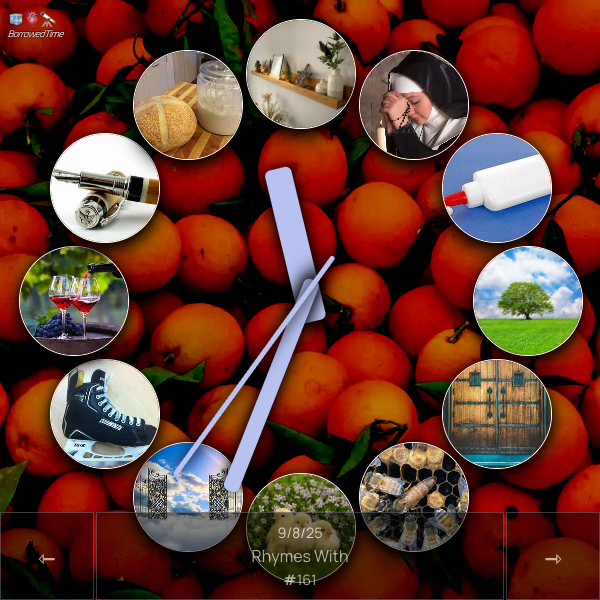
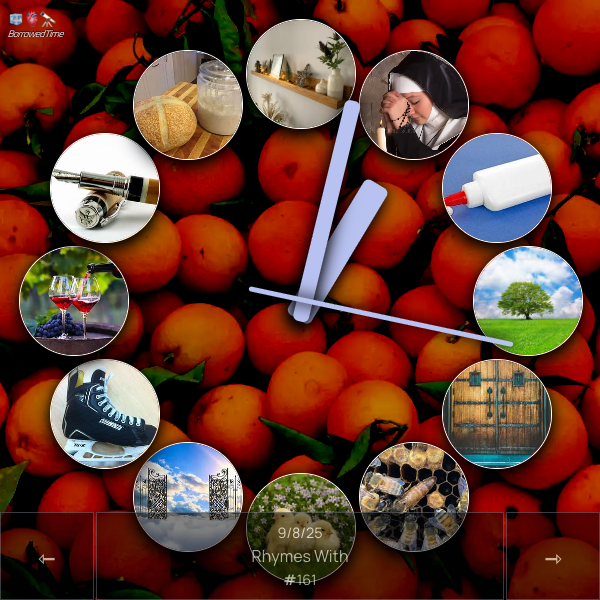
x

Changed region(s): [[0.27, 0.15, 0.87, 0.84]]

diff --git a/src/pages/25-09-08/Clock.jsx b/src/pages/25-09-08/Clock.jsx
@@ -1,5 +1,5 @@
 import React, { useEffect, useState } from "react";
-import bgImage from "./orange.webp"; // background
+import bgImage from "./orange.webp";
 import img1 from "./1.webp";
 import img2 from "./2.jpg";
 import img3 from "./3.jpg";
@@ -18,6 +18,11 @@ export default function ImageAnalogClock() {
   const [loaded, setLoaded] = useState(false);
 
   const images = [bgImage, img12, img1, img2, img3, img4, img5, img6, img7, img8, img9, img10, img11];
+  const CLOCK_SIZE = 90;
+  const CENTER = CLOCK_SIZE / 2;
+  const IMG_RADIUS = CLOCK_SIZE * 0.42;
+  const IMG_SIZE = CLOCK_SIZE * 0.2;
+  const intenseShadow = "0 1.5vmin 3vmin rgba(0,0,0,1), 0 0 2vmin rgba(0,0,0,0.8)";
 
   // Preload images
   useEffect(() => {
@@ -30,7 +35,6 @@ export default function ImageAnalogClock() {
         if (loadedCount === images.length) setLoaded(true);
       };
       img.onerror = () => {
-        // If any image fails, we still proceed
         loadedCount += 1;
         if (loadedCount === images.length) setLoaded(true);
       };
@@ -44,15 +48,10 @@ export default function ImageAnalogClock() {
   }, []);
 
   if (!loaded) {
-    return null; // or a loader div if you prefer
+    return <div style={{ color: "white", fontSize: "2rem", position: "absolute", top: "50%", left: "50%", transform: "translate(-50%, -50%)" }}>Loading...</div>;
   }
 
-  const clockSize = 90; 
-  const center = clockSize / 2;
-  const imgRadius = clockSize * 0.42;
-  const imgSize = clockSize * 0.2;
   const hourImages = [img12, img1, img2, img3, img4, img5, img6, img7, img8, img9, img10, img11];
-
   const hours = time.getHours() % 12;
   const minutes = time.getMinutes();
   const seconds = time.getSeconds();
@@ -61,20 +60,23 @@ export default function ImageAnalogClock() {
   const minuteAngle = (minutes + seconds / 60) * 6;
   const secondAngle = seconds * 6;
 
-  const intenseShadow = "0 1.5vmin 3vmin rgba(0,0,0,1), 0 0 2vmin rgba(0,0,0,0.8)";
-
   return (
     <div
       style={{
         width: "100vw",
         height: "100vh",
-        position: "relative",
+        position: "fixed",
+        top: 0,
+        left: 0,
         display: "flex",
         justifyContent: "center",
         alignItems: "center",
+        overflow: "hidden",
+        margin: 0,
+        padding: 0,
       }}
+      aria-label={`Analog clock showing ${hours}:${minutes.toString().padStart(2, "0")}:${seconds.toString().padStart(2, "0")}`}
     >
-      {/* Background */}
       <div
         style={{
           position: "absolute",
@@ -90,12 +92,12 @@ export default function ImageAnalogClock() {
           zIndex: 0,
         }}
       />
-
-      {/* Clock */}
       <div
         style={{
-          width: `${clockSize}vmin`,
-          height: `${clockSize}vmin`,
+          width: `${CLOCK_SIZE}vmin`,
+          height: `${CLOCK_SIZE}vmin`,
+          maxWidth: "800px",
+          maxHeight: "800px",
           borderRadius: "50%",
           position: "relative",
           zIndex: 1,
@@ -103,20 +105,20 @@ export default function ImageAnalogClock() {
       >
         {hourImages.map((img, i) => {
           const angle = (i * 30) * (Math.PI / 180);
-          const x = center + imgRadius * Math.sin(angle);
-          const y = center - imgRadius * Math.cos(angle);
+          const x = CENTER + IMG_RADIUS * Math.sin(angle);
+          const y = CENTER - IMG_RADIUS * Math.cos(angle);
           return (
             <div
               key={i}
               style={{
-                width: `${imgSize}vmin`,
-                height: `${imgSize}vmin`,
+                width: `${IMG_SIZE}vmin`,
+                height: `${IMG_SIZE}vmin`,
                 position: "absolute",
-                left: `${x - imgSize / 2}vmin`,
-                top: `${y - imgSize / 2}vmin`,
+                left: `${x - IMG_SIZE / 2}vmin`,
+                top: `${y - IMG_SIZE / 2}vmin`,
                 borderRadius: "50%",
                 overflow: "hidden",
-                border: `${clockSize * 0.0025}vmin solid white`,
+                border: `${CLOCK_SIZE * 0.0025}vmin solid white`,
                 display: "flex",
                 justifyContent: "center",
                 alignItems: "center",
@@ -126,60 +128,71 @@ export default function ImageAnalogClock() {
             >
               <img
                 src={img}
-                alt={`hour-${i}`}
+                alt={`Hour marker for ${i || 12}`}
                 style={{ width: "100%", height: "100%", objectFit: "cover" }}
               />
             </div>
           );
         })}
-
         {/* Hour hand */}
         <div
           style={{
-            width: `${clockSize * 0.05}vmin`,
-            height: `${clockSize * 0.29}vmin`,
- backgroundColor: "#B8C2F1FF",
-                      position: "absolute",
-            top: `${center - clockSize * 0.25}vmin`,
-            left: `${center - (clockSize * 0.02) / 2}vmin`,
-            transformOrigin: `50% ${clockSize * 0.25}vmin`,
+            width: `${CLOCK_SIZE * 0.05}vmin`,
+            height: `${CLOCK_SIZE * 0.29}vmin`,
+            backgroundColor: "#B8C2F1FF",
+            position: "absolute",
+            top: `${CENTER - CLOCK_SIZE * 0.25}vmin`,
+            left: `${CENTER - (CLOCK_SIZE * 0.02) / 2}vmin`,
+            transformOrigin: `50% ${CLOCK_SIZE * 0.25}vmin`,
             transform: `rotate(${hourAngle}deg)`,
             borderRadius: "1vmin",
             zIndex: 2,
             boxShadow: intenseShadow,
           }}
         />
-
         {/* Minute hand */}
         <div
           style={{
-            width: `${clockSize * 0.03}vmin`,
-            height: `${clockSize * 0.42}vmin`,
+            width: `${CLOCK_SIZE * 0.03}vmin`,
+            height: `${CLOCK_SIZE * 0.42}vmin`,
             backgroundColor: "#B8C2F1FF",
             position: "absolute",
-            top: `${center - clockSize * 0.38}vmin`,
-            left: `${center - (clockSize * 0.01) / 2}vmin`,
-            transformOrigin: `50% ${clockSize * 0.38}vmin`,
+            top: `${CENTER - CLOCK_SIZE * 0.38}vmin`,
+            left: `${CENTER - (CLOCK_SIZE * 0.01) / 2}vmin`,
+            transformOrigin: `50% ${CLOCK_SIZE * 0.38}vmin`,
             transform: `rotate(${minuteAngle}deg)`,
             borderRadius: "1vmin",
             zIndex: 3,
             boxShadow: intenseShadow,
           }}
         />
-
         {/* Second hand */}
         <div
           style={{
-            width: `${clockSize * 0.01}vmin`,
-            height: `${clockSize * 0.5}vmin`,
+            width: `${CLOCK_SIZE * 0.01}vmin`,
+            height: `${CLOCK_SIZE * 0.5}vmin`,
             backgroundColor: "#B8C2F1FF",
             position: "absolute",
-            top: `${center - clockSize * 0.4}vmin`,
-            left: `${center - (clockSize * 0.005) / 2}vmin`,
-            transformOrigin: `50% ${clockSize * 0.4}vmin`,
+            top: `${CENTER - CLOCK_SIZE * 0.4}vmin`,
+            left: `${CENTER - (CLOCK_SIZE * 0.005) / 2}vmin`,
+            transformOrigin: `50% ${CLOCK_SIZE * 0.4}vmin`,
             transform: `rotate(${secondAngle}deg)`,
             borderRadius: "0.5vmin",
             zIndex: 4,
+            boxShadow: intenseShadow,
+          }}
+        />
+        {/* Center dot */}
+        <div
+          style={{
+            width: `${CLOCK_SIZE * 0.05}vmin`,
+            height: `${CLOCK_SIZE * 0.05}vmin`,
+            backgroundColor: "#B8C2F1FF",
+            position: "absolute",
+            top: `${CENTER - (CLOCK_SIZE * 0.025)}vmin`,
+            left: `${CENTER - (CLOCK_SIZE * 0.025)}vmin`,
+            borderRadius: "50%",
+            zIndex: 5,
             boxShadow: intenseShadow,
           }}
         />
